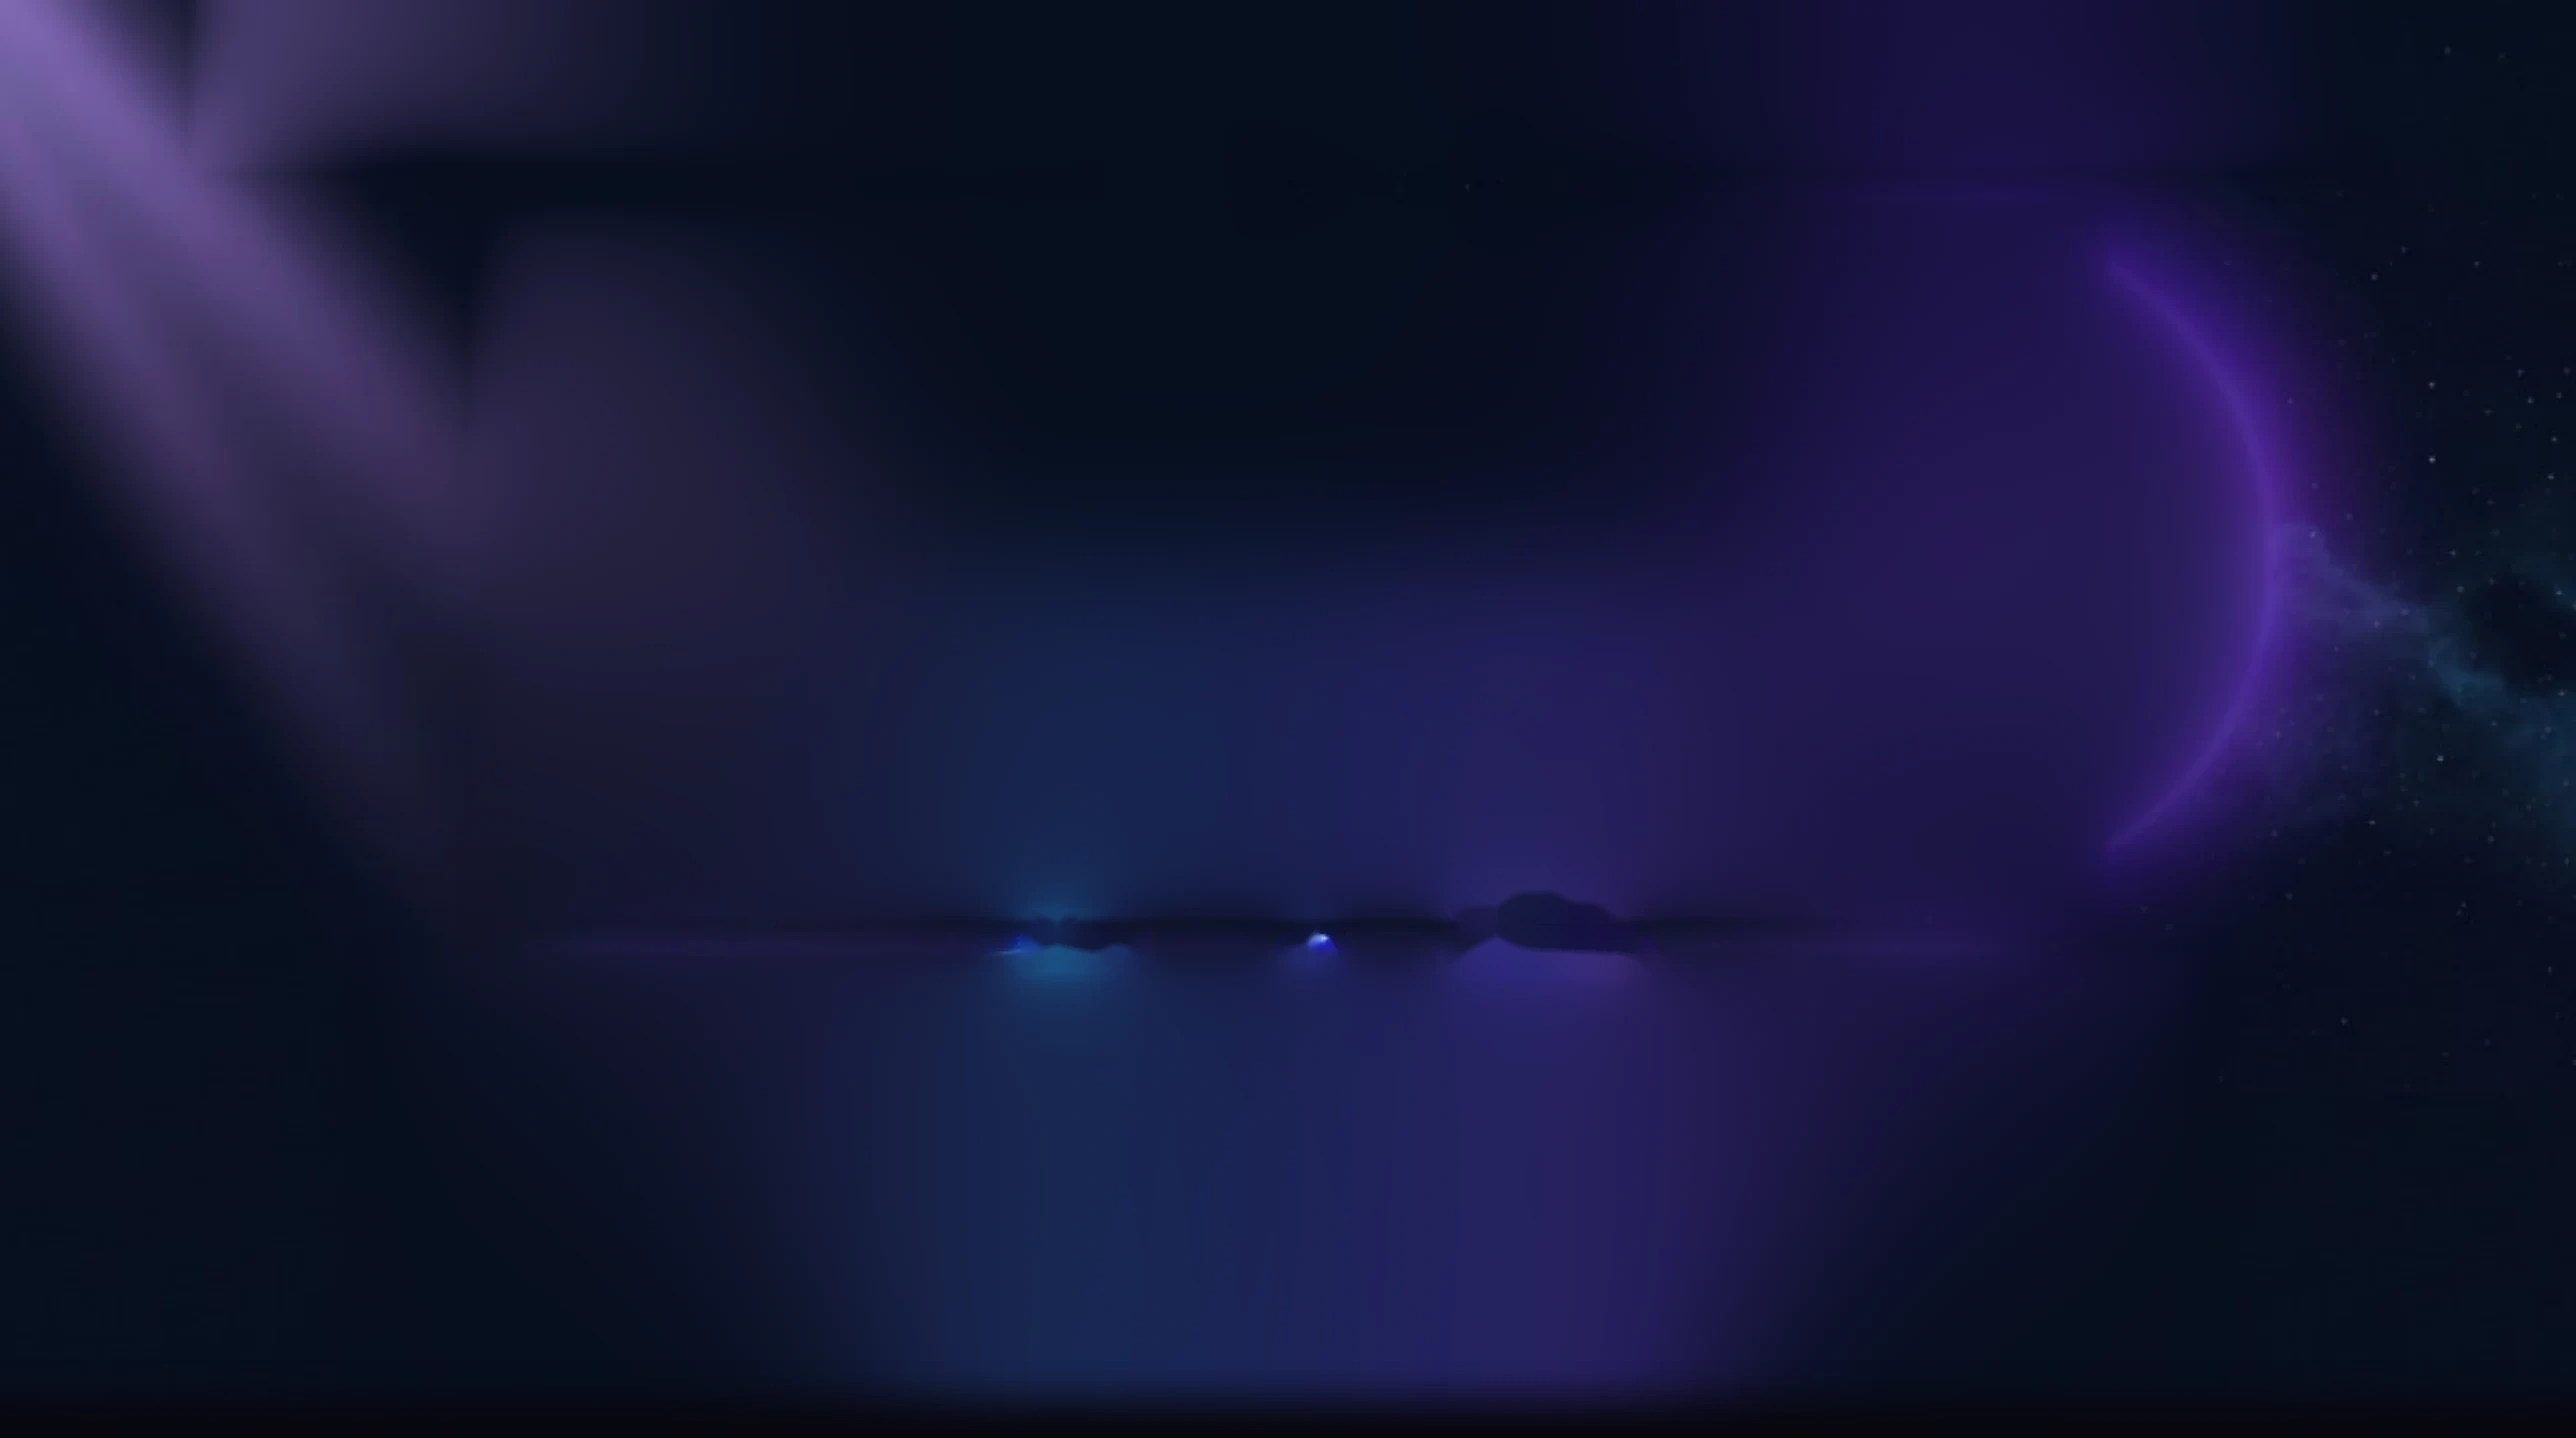
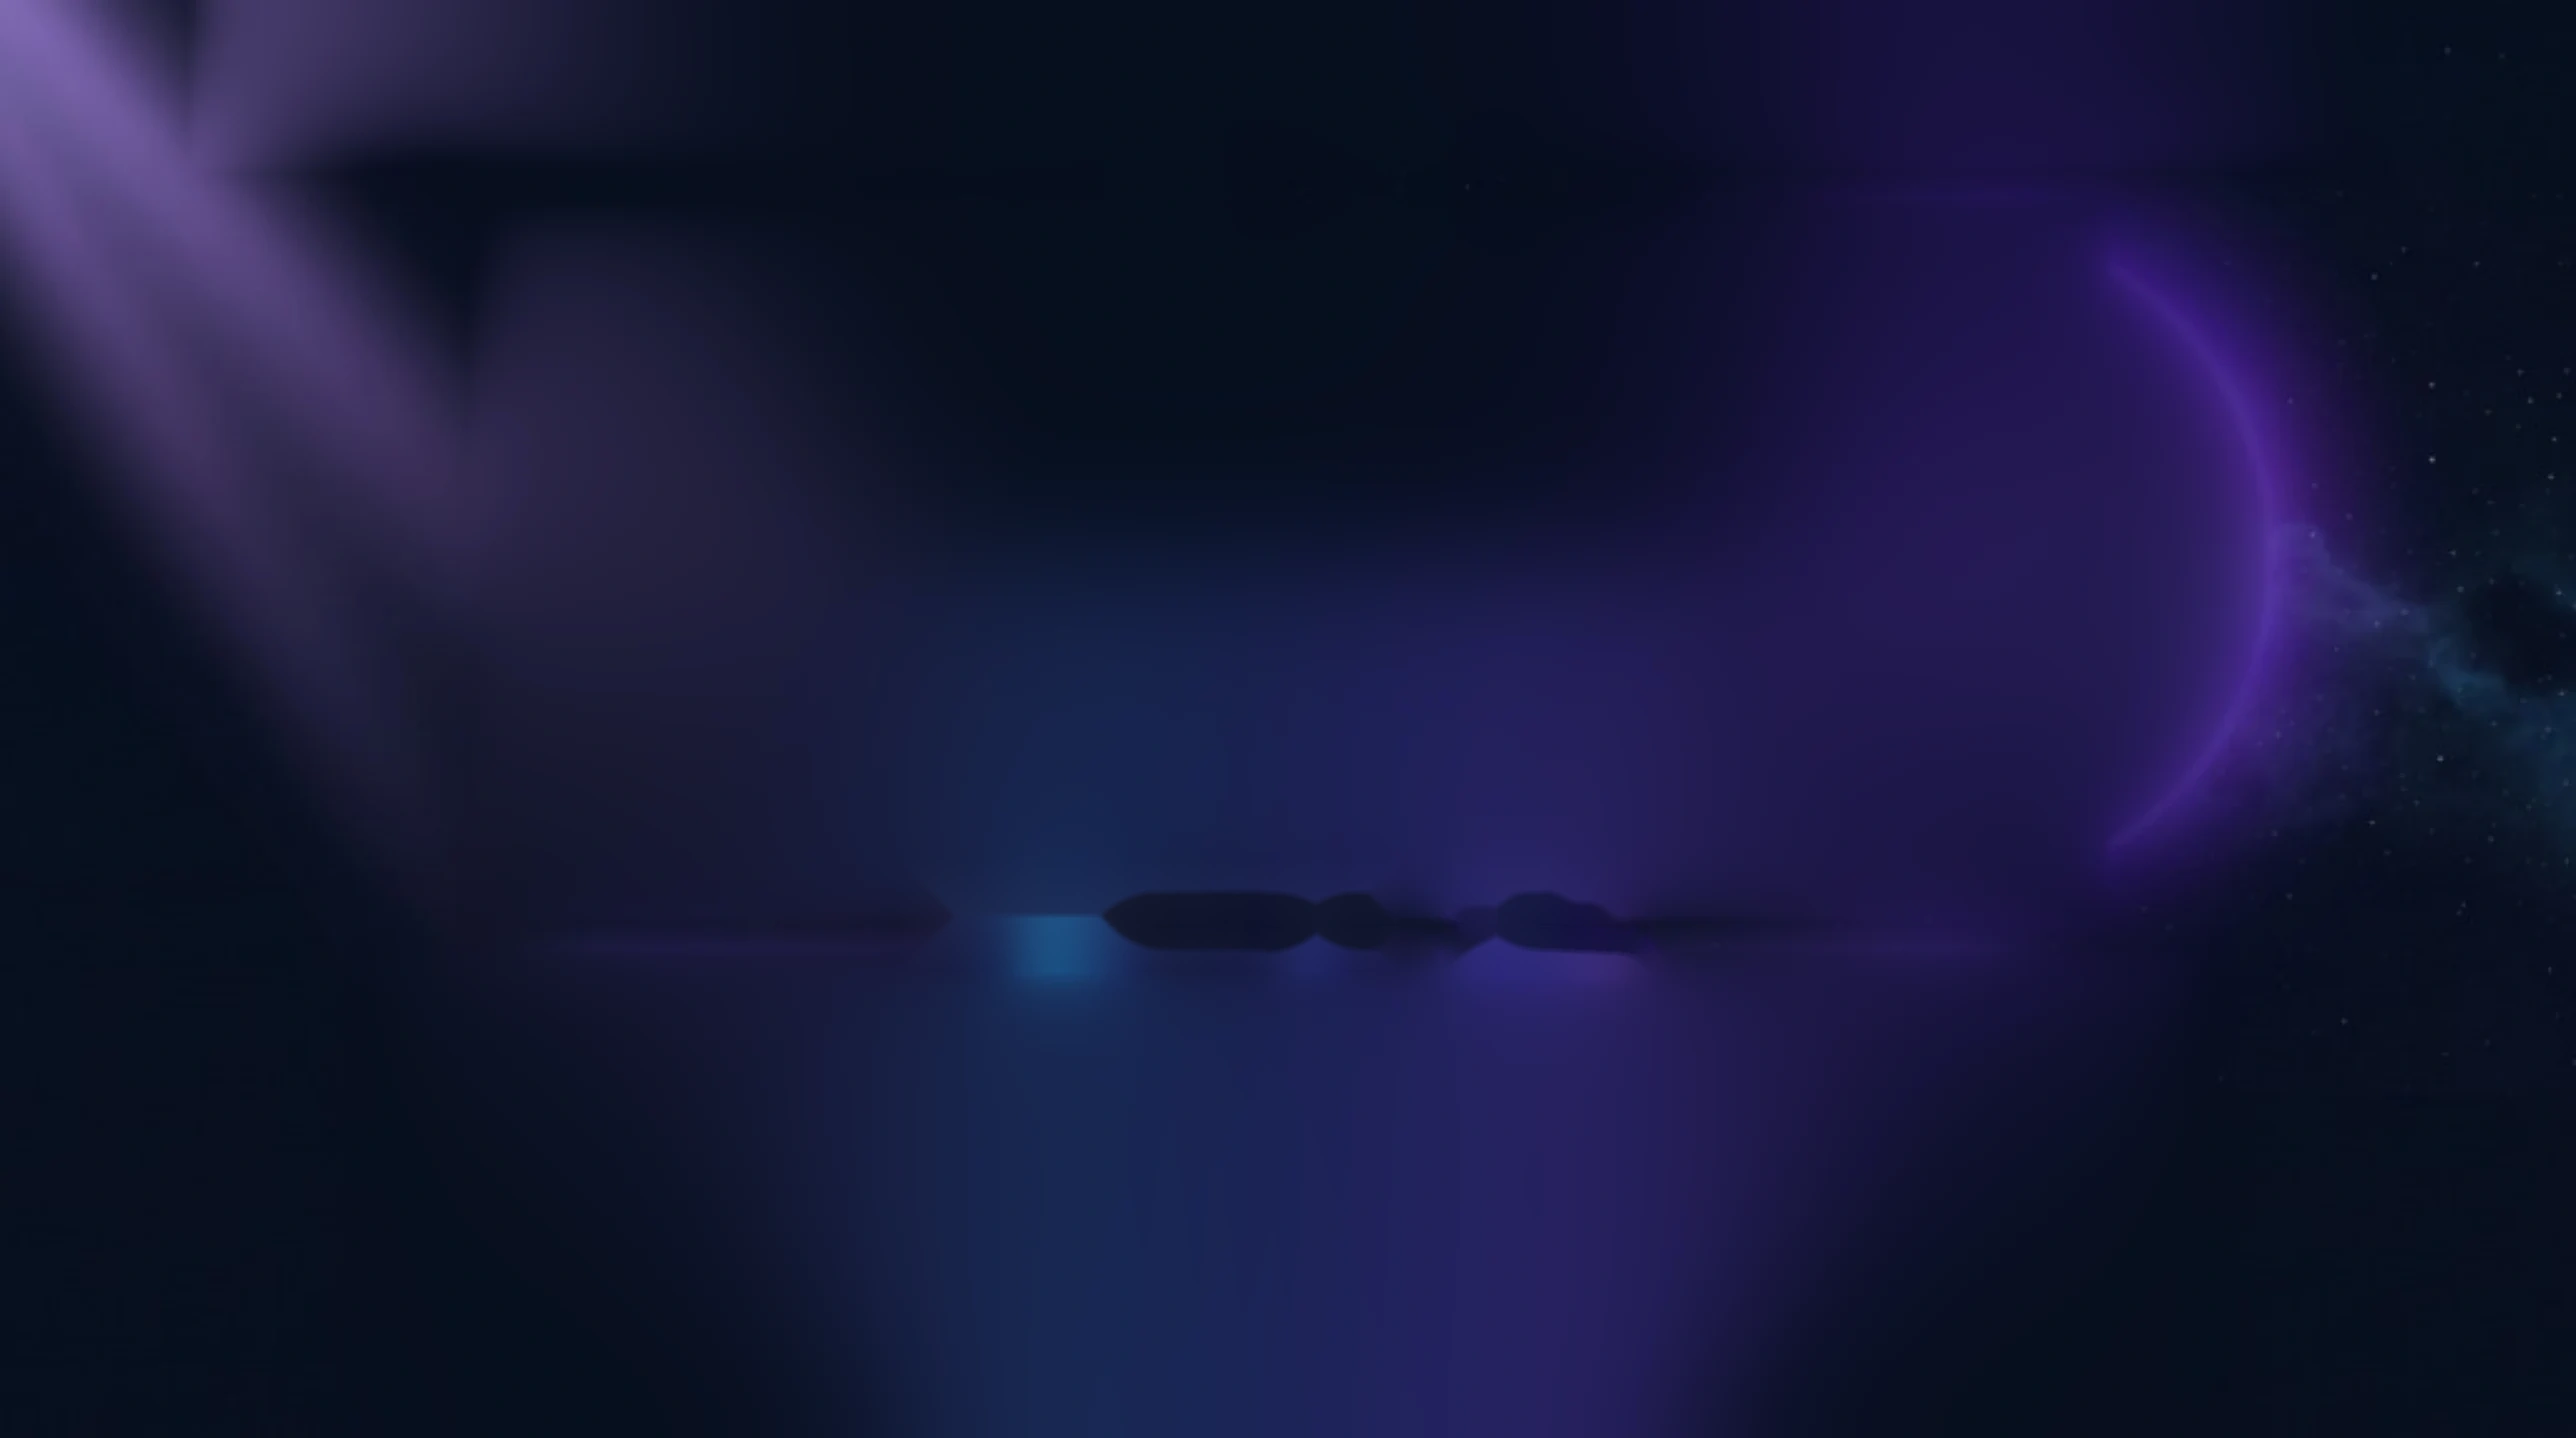
fix(landing): inpaint two blue blobs into v3 and apply dual linear gradient intersect mask

Changed region(s): [[0.3106, 0.9485, 0.7143, 1.0], [0.3727, 0.612, 0.4348, 0.6732], [0.4969, 0.612, 0.528, 0.6732]]

diff --git a/src/components/landing/hero.css b/src/components/landing/hero.css
@@ -76,8 +76,10 @@ html.light .cx-halo{
   background-position:center top;
   background-repeat:no-repeat;
   background-color:#08070f;
-  -webkit-mask-image:linear-gradient(90deg,transparent,#000 10%,#000 90%,transparent);
-  mask-image:linear-gradient(90deg,transparent,#000 10%,#000 90%,transparent);
+  -webkit-mask-image:linear-gradient(90deg,transparent,#000 10%,#000 90%,transparent), linear-gradient(180deg,#000 78%,transparent 98%);
+  -webkit-mask-composite:source-in;
+  mask-image:linear-gradient(90deg,transparent,#000 10%,#000 90%,transparent), linear-gradient(180deg,#000 78%,transparent 98%);
+  mask-composite:intersect;
 }
 /* In dark mode, stars, beam and nebula are integrated into the hero-bg-dark image; keep DOM nodes hidden */
 .cx-hero__beam,
